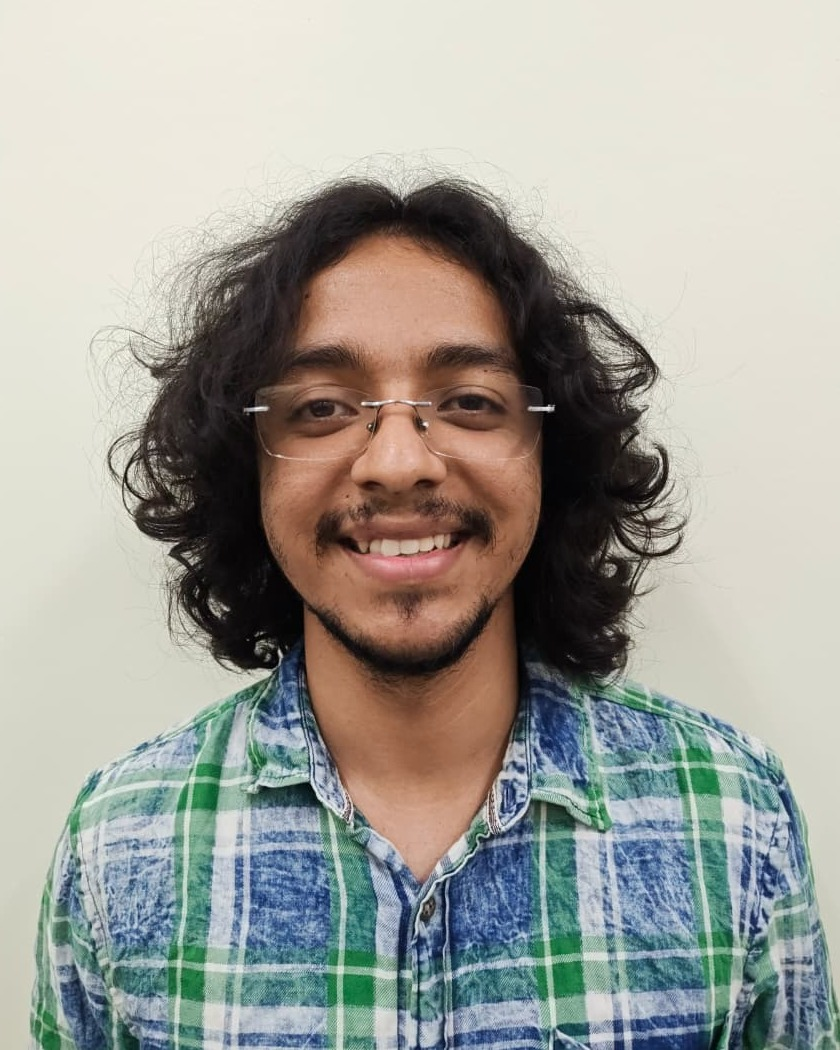
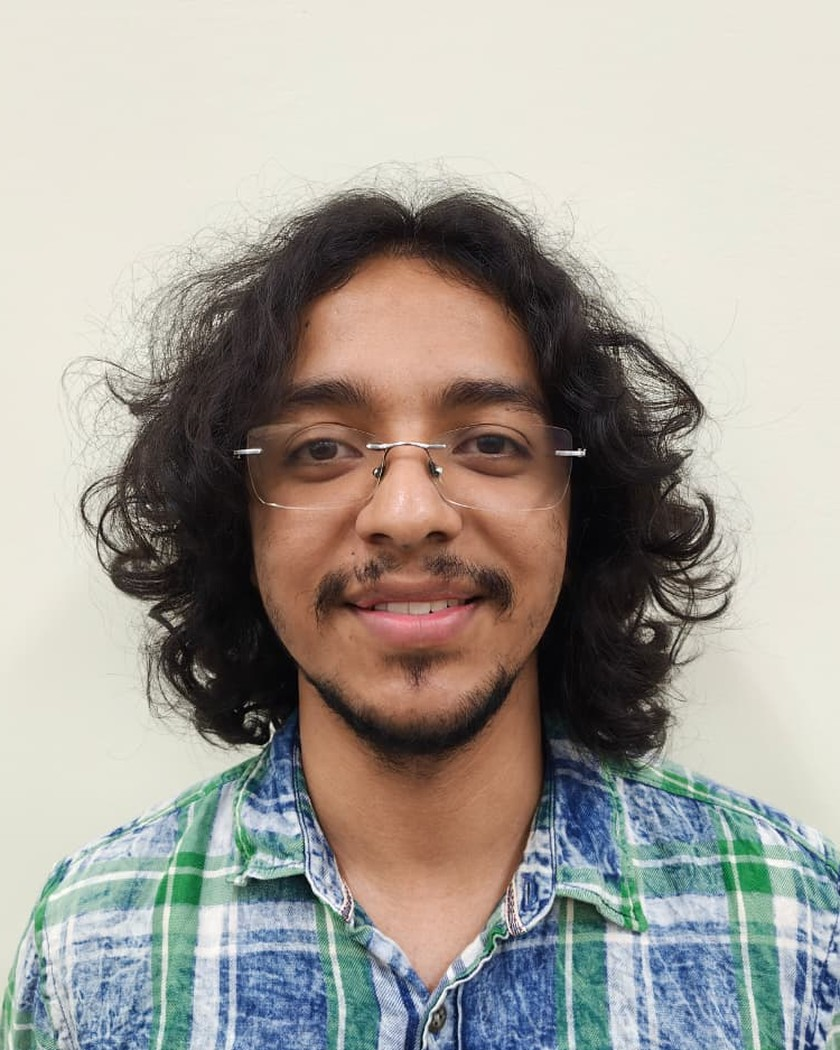
New homepage photo; describe research areas

diff --git a/src/lib/site.ts b/src/lib/site.ts
@@ -6,6 +6,7 @@ export const person = {
     'Quantum foundations and nonlocality',
     'Quantum walks',
     'Open quantum many-body systems',
+    'Quantum computing',
     'Machine learning',
   ],
   email: 'anirudhverma@iisc.ac.in',
